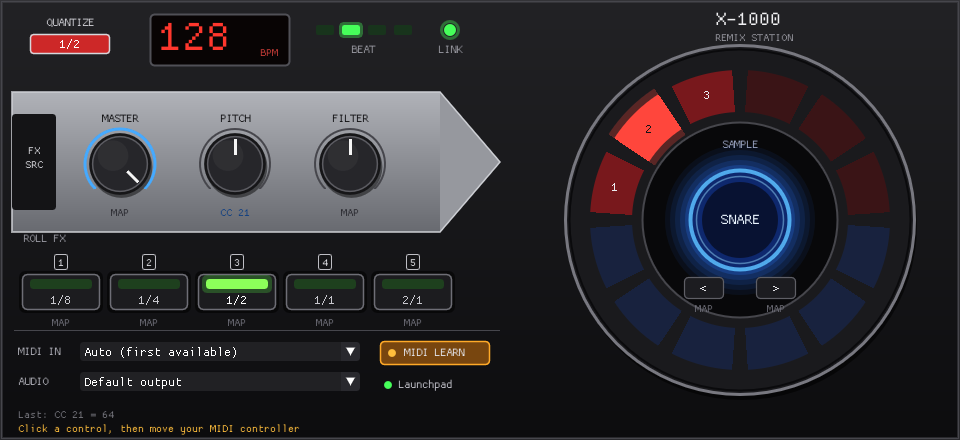
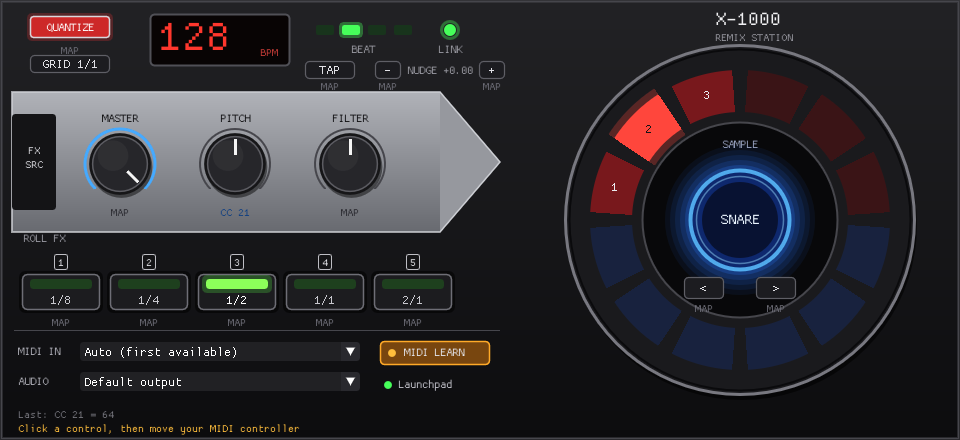
Add RMX-style quantize (on/off, grid, quantized stop), TAP tempo and NUDGE

diff --git a/src/audio/AudioScheduler.cpp b/src/audio/AudioScheduler.cpp
@@ -63,6 +63,12 @@ void AudioScheduler::setFilterAmount(float amount) noexcept {
     filterAmount_.store(std::clamp(amount, -1.0f, 1.0f));
 }
 
+void AudioScheduler::setQuantizeEnabled(bool enabled) noexcept { quantizeEnabled_.store(enabled); }
+void AudioScheduler::setQuantizeGrid(QuantizeDivision grid) noexcept { quantizeGrid_.store(static_cast<int>(grid)); }
+void AudioScheduler::setBeatOffset(double beats) noexcept { beatOffset_.store(std::clamp(beats, -0.5, 0.5)); }
+bool AudioScheduler::quantizeEnabled() const noexcept { return quantizeEnabled_.load(); }
+double AudioScheduler::beatOffset() const noexcept { return beatOffset_.load(); }
+
 float AudioScheduler::masterVolume() const noexcept { return masterVolume_.load(); }
 float AudioScheduler::pitchSemitones() const noexcept { return pitchSemitones_.load(); }
 float AudioScheduler::filterAmount() const noexcept { return filterAmount_.load(); }
@@ -116,9 +122,17 @@ void AudioScheduler::startRoll(int padIndex,
     }
     if (!sample || !sample->loaded()) return;
 
-    const double triggerAtBeat = quantizeNextBeat(currentBeat, rollDivision);
+    // Quantize on: wait for the next grid line. Off: fire on the next audio block.
+    const double shiftedBeat = currentBeat + beatOffset_.load();
+    const double triggerAtBeat = quantizeEnabled_.load()
+        ? quantizeNextBeat(shiftedBeat, static_cast<QuantizeDivision>(quantizeGrid_.load()))
+        : shiftedBeat;
     {
         std::scoped_lock lock(scheduleMutex_);
+        pendingStops_.erase(
+            std::remove_if(pendingStops_.begin(), pendingStops_.end(),
+                           [padIndex](const PendingStop& e){ return e.padIndex == padIndex; }),
+            pendingStops_.end());
         pendingEvents_.erase(
             std::remove_if(pendingEvents_.begin(), pendingEvents_.end(),
                            [padIndex](const ScheduledEvent& e){ return e.padIndex == padIndex; }),
@@ -144,10 +158,41 @@ void AudioScheduler::stopRoll(int padIndex) {
             std::remove_if(pendingEvents_.begin(), pendingEvents_.end(),
                            [padIndex](const ScheduledEvent& e){ return e.padIndex == padIndex; }),
             pendingEvents_.end());
+        pendingStops_.erase(
+            std::remove_if(pendingStops_.begin(), pendingStops_.end(),
+                           [padIndex](const PendingStop& e){ return e.padIndex == padIndex; }),
+            pendingStops_.end());
     }
 
     stopVoice(padIndex);
     padScheduled_[static_cast<std::size_t>(padIndex)].store(false);
+}
+
+void AudioScheduler::requestStopRoll(int padIndex, double currentBeat) {
+    if (padIndex < 0 || padIndex >= xpad::samples::kPadCount) return;
+
+    if (!quantizeEnabled_.load()) {
+        stopRoll(padIndex);
+        return;
+    }
+
+    const double stopAtBeat = quantizeNextBeat(currentBeat + beatOffset_.load(),
+                                               static_cast<QuantizeDivision>(quantizeGrid_.load()));
+    std::scoped_lock lock(scheduleMutex_);
+    // A roll still waiting for its start is simply cancelled.
+    const auto before = pendingEvents_.size();
+    pendingEvents_.erase(
+        std::remove_if(pendingEvents_.begin(), pendingEvents_.end(),
+                       [padIndex](const ScheduledEvent& e){ return e.padIndex == padIndex; }),
+        pendingEvents_.end());
+    if (pendingEvents_.size() != before) {
+        padScheduled_[static_cast<std::size_t>(padIndex)].store(false);
+    }
+    pendingStops_.erase(
+        std::remove_if(pendingStops_.begin(), pendingStops_.end(),
+                       [padIndex](const PendingStop& e){ return e.padIndex == padIndex; }),
+        pendingStops_.end());
+    pendingStops_.push_back(PendingStop{padIndex, stopAtBeat});
 }
 
 void AudioScheduler::releasePad(int padIndex) {
@@ -174,9 +219,21 @@ void AudioScheduler::processAudio(float* outputBuffer,
 
     {
         std::scoped_lock lock(scheduleMutex_);
+        const double shiftedBeat = currentBeat + beatOffset_.load();
+
+        auto stopIt = pendingStops_.begin();
+        while (stopIt != pendingStops_.end()) {
+            if (shiftedBeat >= stopIt->stopAtBeat) {
+                stopVoice(stopIt->padIndex);
+                stopIt = pendingStops_.erase(stopIt);
+            } else {
+                ++stopIt;
+            }
+        }
+
         auto it = pendingEvents_.begin();
         while (it != pendingEvents_.end()) {
-            if (currentBeat >= it->triggerAtBeat) {
+            if (shiftedBeat >= it->triggerAtBeat) {
                 activateVoice(it->padIndex,
                               it->triggerAtBeat,
                               it->volume,

diff --git a/src/gui/MainWindow.cpp b/src/gui/MainWindow.cpp
@@ -290,13 +290,37 @@ void MainWindow::run(const xpad::link::LinkManager& linkManager,
         dl->AddText(ImGui::GetFont(), 11.0f, P(W - 245, 31), col(150, 150, 158), "REMIX STATION");
 
         // ---- header: BPM LCD, beat LEDs, link ----
-        panelLabel(dl, P(70, 22), "QUANTIZE");
+        // QUANTIZE on/off, grid selector
         {
-            const ImVec2 q0 = P(30, 34), q1 = P(110, 54);
-            const bool quantOn = activeRollButton >= 0;
-            dl->AddRectFilled(q0, q1, quantOn ? col(205, 40, 40) : col(95, 28, 28), 3.0f);
+            const ImVec2 sz{80.0f, 22.0f};
+            ImGui::SetCursorScreenPos(P(30, 16));
+            if (ImGui::InvisibleButton("##quantize", sz)) {
+                if (midiLearnMode) {
+                    beginLearn("quantize");
+                } else {
+                    cfg.quantizeEnabled = !cfg.quantizeEnabled;
+                    if (handlers_.onQuantizeChange) handlers_.onQuantizeChange(cfg.quantizeEnabled);
+                }
+            }
+            const ImVec2 q0 = P(30, 16), q1 = P(30 + sz.x, 16 + sz.y);
+            const bool on = cfg.quantizeEnabled;
+            if (on) dl->AddRectFilled({q0.x - 3, q0.y - 3}, {q1.x + 3, q1.y + 3}, col(255, 50, 50, 60), 5.0f);
+            dl->AddRectFilled(q0, q1, on ? col(205, 40, 40) : col(70, 24, 24), 3.0f);
             dl->AddRect(q0, q1, col(215, 215, 220), 3.0f, 0, 1.5f);
-            textCentered(dl, P(70, 44), 13.0f, col(255, 255, 255), quantOn ? kRollLabels[activeRollButton] : "OFF");
+            textCentered(dl, {(q0.x + q1.x) * 0.5f, (q0.y + q1.y) * 0.5f}, 12.0f,
+                         on ? col(255, 255, 255) : col(190, 150, 150), "QUANTIZE");
+            if (midiLearnMode || !bindingLabel("quantize").empty() || pendingMidiLearnControl == "quantize")
+                drawBinding(dl, P(70, 50), "quantize");
+
+            const int grid = std::clamp(cfg.quantizeGrid, 0, 4);
+            char gl[24];
+            std::snprintf(gl, sizeof(gl), "GRID %s", kRollLabels[grid]);
+            if (smallButton("##qgrid", gl, P(70, 64), {80, 18})) {
+                if (!midiLearnMode) {
+                    cfg.quantizeGrid = (grid + 1) % 5;
+                    if (handlers_.onQuantizeGridChange) handlers_.onQuantizeGridChange(cfg.quantizeGrid);
+                }
+            }
         }
 
         {
@@ -324,6 +348,34 @@ void MainWindow::run(const xpad::link::LinkManager& linkManager,
             dl->AddCircleFilled(c, 6.0f, snapshot.connected ? col(70, 255, 90) : col(120, 50, 40), 20);
             if (snapshot.connected) dl->AddCircle(c, 9.0f, col(70, 255, 90, 90), 20, 3.0f);
             panelLabel(dl, P(450, 49), snapshot.connected ? "LINK" : "NO LINK", col(150, 150, 158));
+        }
+
+        // TAP tempo and NUDGE (beat phase)
+        {
+            auto mapped = [&](const char* id, ImVec2 c, const char* text, ImVec2 size) {
+                const bool clicked = smallButton(id, text, c, size);
+                return clicked;
+            };
+            if (mapped("##tap", P(330, 70), "TAP", {50, 18})) {
+                if (midiLearnMode) beginLearn("tap");
+                else if (handlers_.onTap) handlers_.onTap();
+            }
+            if (mapped("##nudgem", P(388, 70), "-", {26, 18})) {
+                if (midiLearnMode) beginLearn("nudge_minus");
+                else if (handlers_.onNudge) handlers_.onNudge(-1);
+            }
+            if (mapped("##nudgep", P(492, 70), "+", {26, 18})) {
+                if (midiLearnMode) beginLearn("nudge_plus");
+                else if (handlers_.onNudge) handlers_.onNudge(1);
+            }
+            char nb[24];
+            std::snprintf(nb, sizeof(nb), "NUDGE %+.2f", cfg.beatOffset);
+            panelLabel(dl, P(440, 70), nb, col(150, 150, 158));
+            if (midiLearnMode) {
+                drawBinding(dl, P(330, 86), "tap");
+                drawBinding(dl, P(388, 86), "nudge_minus");
+                drawBinding(dl, P(492, 86), "nudge_plus");
+            }
         }
 
         // ---- FX source arrow panel with the three main knobs ----

diff --git a/src/app/App.cpp b/src/app/App.cpp
@@ -104,6 +104,9 @@ void App::initSubsystems() {
     scheduler_->setMasterVolume(xCfg_.masterVolume);
     scheduler_->setPitchSemitones(xCfg_.pitchSemitones);
     scheduler_->setFilterAmount(xCfg_.filterAmount);
+    scheduler_->setQuantizeEnabled(xCfg_.quantizeEnabled);
+    scheduler_->setQuantizeGrid(toQuantDivisionFromRulerIndex(xCfg_.quantizeGrid));
+    scheduler_->setBeatOffset(xCfg_.beatOffset);
 
     audioEngine_ = std::make_shared<xpad::audio::AudioEngine>(
         xpad::audio::AudioConfig{
@@ -362,6 +365,35 @@ void App::applyAudioDeviceSelection(const std::string& deviceName) {
     xCfg_.save(xpad::config::XPadConfig::defaultPath());
 }
 
+void App::setQuantizeEnabled(bool enabled) {
+    xCfg_.quantizeEnabled = enabled;
+    if (scheduler_) scheduler_->setQuantizeEnabled(enabled);
+}
+
+void App::setQuantizeGrid(int gridIndex) {
+    xCfg_.quantizeGrid = std::clamp(gridIndex, 0, 4);
+    if (scheduler_) scheduler_->setQuantizeGrid(toQuantDivisionFromRulerIndex(xCfg_.quantizeGrid));
+}
+
+void App::tapTempo() {
+    const auto now = std::chrono::steady_clock::now();
+    // A pause longer than 2 s starts a new measurement.
+    if (!tapTimes_.empty() && now - tapTimes_.back() > std::chrono::seconds(2)) tapTimes_.clear();
+    tapTimes_.push_back(now);
+    while (tapTimes_.size() > 8) tapTimes_.pop_front();
+    if (tapTimes_.size() < 2) return;
+
+    const double seconds = std::chrono::duration<double>(tapTimes_.back() - tapTimes_.front()).count();
+    const double bpm = 60.0 * static_cast<double>(tapTimes_.size() - 1) / seconds;
+    if (bpm >= 40.0 && bpm <= 240.0 && linkManager_) linkManager_->setTempoBpm(bpm);
+}
+
+void App::nudgeBeat(int direction) {
+    constexpr float kNudgeStep = 0.01f; // beats
+    xCfg_.beatOffset = std::clamp(xCfg_.beatOffset + kNudgeStep * static_cast<float>(direction), -0.5f, 0.5f);
+    if (scheduler_) scheduler_->setBeatOffset(xCfg_.beatOffset);
+}
+
 void App::beginMidiLearn(const std::string& controlId) {
     if (!midiLearnMode_) return;
     pendingMidiLearnControl_ = controlId;
@@ -373,6 +405,15 @@ void App::applyMidiControl(const std::string& controlId, const xpad::midi::MidiM
         const float vol = msg.isCC() ? (static_cast<float>(msg.data2) / 127.0f)
                                      : std::max(0.05f, static_cast<float>(msg.data2) / 127.0f);
         onTrigger(std::max(0.05f, vol));
+        return;
+    }
+
+    if (controlId == "quantize" || controlId == "tap" ||
+        controlId == "nudge_minus" || controlId == "nudge_plus") {
+        if (msg.data2 == 0) return; // ignore button release / note-off style values
+        if (controlId == "quantize") setQuantizeEnabled(!xCfg_.quantizeEnabled);
+        else if (controlId == "tap") tapTempo();
+        else nudgeBeat(controlId == "nudge_plus" ? 1 : -1);
         return;
     }
 
@@ -498,7 +539,7 @@ void App::selectRoll(int rollButtonIndex, float volume) {
 
     // Deselect behavior: clicking active button again turns roll off.
     if (rollButtonIndex < 0) {
-        scheduler_->stopRoll(0);
+        scheduler_->requestStopRoll(0, linkManager_->snapshot().beat);
         activeRollButton_ = -1;
         xCfg_.globalQuantization = -1;
         return;
@@ -564,6 +605,10 @@ void App::runGui() {
     handlers.onRulerChange = [this](int rulerIndex) {
         selectRoll(rulerIndex, 1.0f);
     };
+    handlers.onQuantizeChange = [this](bool enabled) { setQuantizeEnabled(enabled); };
+    handlers.onQuantizeGridChange = [this](int index) { setQuantizeGrid(index); };
+    handlers.onTap = [this]() { tapTempo(); };
+    handlers.onNudge = [this](int direction) { nudgeBeat(direction); };
     handlers.onMidiPortChange = [this](const std::string& portName) {
         applyMidiPortSelection(portName);
     };

diff --git a/src/audio/AudioScheduler.hpp b/src/audio/AudioScheduler.hpp
@@ -64,6 +64,9 @@ public:
                    float volume = 1.0f);
 
     void stopRoll(int padIndex);
+
+    // Stops the roll on the next quantize grid line (immediately if quantize is off).
+    void requestStopRoll(int padIndex, double currentBeat);
     void releasePad(int padIndex);
 
     // Realtime controls applied inside audio callback.
@@ -71,6 +74,14 @@ public:
     void setPitchSemitones(float semitones) noexcept;
     void setFilterAmount(float amount) noexcept;
 
+    // Quantize: when enabled, roll start/stop snap to the grid.
+    void setQuantizeEnabled(bool enabled) noexcept;
+    void setQuantizeGrid(QuantizeDivision grid) noexcept;
+    // Shifts the grid against the Link beat (in beats) to line up with what you hear.
+    void setBeatOffset(double beats) noexcept;
+
+    [[nodiscard]] bool quantizeEnabled() const noexcept;
+    [[nodiscard]] double beatOffset() const noexcept;
     [[nodiscard]] float masterVolume() const noexcept;
     [[nodiscard]] float pitchSemitones() const noexcept;
     [[nodiscard]] float filterAmount() const noexcept;
@@ -100,6 +111,16 @@ private:
 
     std::mutex scheduleMutex_;
     std::vector<ScheduledEvent> pendingEvents_;
+
+    struct PendingStop {
+        int padIndex{-1};
+        double stopAtBeat{0.0};
+    };
+    std::vector<PendingStop> pendingStops_;
+
+    std::atomic<bool> quantizeEnabled_{true};
+    std::atomic<int> quantizeGrid_{static_cast<int>(QuantizeDivision::Whole)};
+    std::atomic<double> beatOffset_{0.0};
 
     std::array<Voice, kMaxVoices> voices_{};
     std::array<std::atomic<bool>, xpad::samples::kPadCount> padActive_{};

diff --git a/src/config/Config.cpp b/src/config/Config.cpp
@@ -1,3 +1,4 @@
+#include <algorithm>
 #include "config/Config.hpp"
 #include "core/Logger.hpp"
 #include <nlohmann/json.hpp>
@@ -47,6 +48,9 @@ bool XPadConfig::save(const std::string& filePath) const {
         j["ui"]["filterAmount"]      = filterAmount;
         j["ui"]["selectedSamplePath"] = selectedSamplePath;
         j["ui"]["globalQuantization"] = globalQuantization;
+        j["ui"]["quantizeEnabled"]    = quantizeEnabled;
+        j["ui"]["quantizeGrid"]       = quantizeGrid;
+        j["ui"]["beatOffset"]         = beatOffset;
 
         j["padQuantization"] = padQuantization;
 
@@ -110,6 +114,9 @@ bool XPadConfig::load(const std::string& filePath) {
         filterAmount      = j.value("/ui/filterAmount"_json_pointer, 0.0f);
         selectedSamplePath= j.value("/ui/selectedSamplePath"_json_pointer, std::string{});
         globalQuantization= j.value("/ui/globalQuantization"_json_pointer, 3);
+        quantizeEnabled   = j.value("/ui/quantizeEnabled"_json_pointer, true);
+        quantizeGrid      = std::clamp(j.value("/ui/quantizeGrid"_json_pointer, 3), 0, 4);
+        beatOffset        = j.value("/ui/beatOffset"_json_pointer, 0.0f);
 
         if (j.contains("padQuantization")) {
             auto& pq = j["padQuantization"];

diff --git a/src/app/App.hpp b/src/app/App.hpp
@@ -6,6 +6,8 @@
 #include "link/LinkManager.hpp"
 #include "midi/MidiManager.hpp"
 #include "samples/SampleBank.hpp"
+#include <chrono>
+#include <deque>
 #include <memory>
 #include <string>
 #include <unordered_map>
@@ -43,6 +45,10 @@ private:
     void onMidiMessage(const xpad::midi::MidiMessage& msg);
     void onTrigger(float volume);
     void selectRoll(int rollButtonIndex, float volume);
+    void setQuantizeEnabled(bool enabled);
+    void setQuantizeGrid(int gridIndex);
+    void tapTempo();
+    void nudgeBeat(int direction);
     void beginMidiLearn(const std::string& controlId);
     void setMidiLearnMode(bool enabled);
     void applyMidiPortSelection(const std::string& portName);
@@ -65,6 +71,7 @@ private:
     int selectedSampleIndex_{0};
     int activeRollButton_{-1}; // 0..4 => 1/8,1/4,1/2,1/1,2/1
     bool midiLearnMode_{false};
+    std::deque<std::chrono::steady_clock::time_point> tapTimes_;
     std::string pendingMidiLearnControl_{};
     std::unordered_map<std::string, xpad::config::MidiLearnBinding> midiBindingByControl_;
     std::unordered_map<std::string, std::string> midiBindingLabelByControl_;

diff --git a/src/gui/MainWindow.hpp b/src/gui/MainWindow.hpp
@@ -24,6 +24,10 @@ struct GuiHandlers {
     std::function<void(bool enabled)>               onSetMidiLearnMode;
     std::function<void(const std::string& control)> onBeginMidiLearn;
     std::function<std::pair<std::string, std::string>()> onGetMidiStatus;
+    std::function<void(bool enabled)>               onQuantizeChange;
+    std::function<void(int gridIndex)>              onQuantizeGridChange;
+    std::function<void()>                           onTap;
+    std::function<void(int direction)>              onNudge;
     std::function<void()>                           onSaveConfig;
 };
 

diff --git a/src/config/Config.hpp b/src/config/Config.hpp
@@ -40,6 +40,9 @@ struct XPadConfig {
     // RMX-style global controls
     std::string selectedSamplePath{};
     int globalQuantization{3}; // 0=2/1, 1=1/1, 2=1/2, 3=1/4, 4=1/8
+    bool quantizeEnabled{true};
+    int quantizeGrid{3};       // same indices as the roll buttons: 0=1/8 .. 4=2/1
+    float beatOffset{0.0f};    // nudge, in beats
 
     // Legacy per-pad quantization (kept for backward compatibility)
     std::array<int, 8> padQuantization{2,2,2,2,2,2,2,2};

diff --git a/README.md b/README.md
@@ -28,7 +28,9 @@ X-1000 gives you the same build-up experience with any inexpensive MIDI controll
 
 ## Features
 
-- **Roll FX** with 1/8, 1/4, 1/2, 1/1 and 2/1 quantization, synced to Ableton Link
+- **Roll FX** with 1/8, 1/4, 1/2, 1/1 and 2/1 divisions, synced to Ableton Link
+- **Quantize** (on/off) with its own grid: rolls start and stop on the beat, like the RMX-1000
+- **TAP** tempo and **NUDGE** to line the grid up with what you hear
 - **Pitch** and **Filter** applied directly to the roll, plus a **Master** level
 - **Sample ring** to pick the sample, with a beat-synced glow
 - **MIDI Learn** for every control: roll buttons, knobs and sample prev/next
